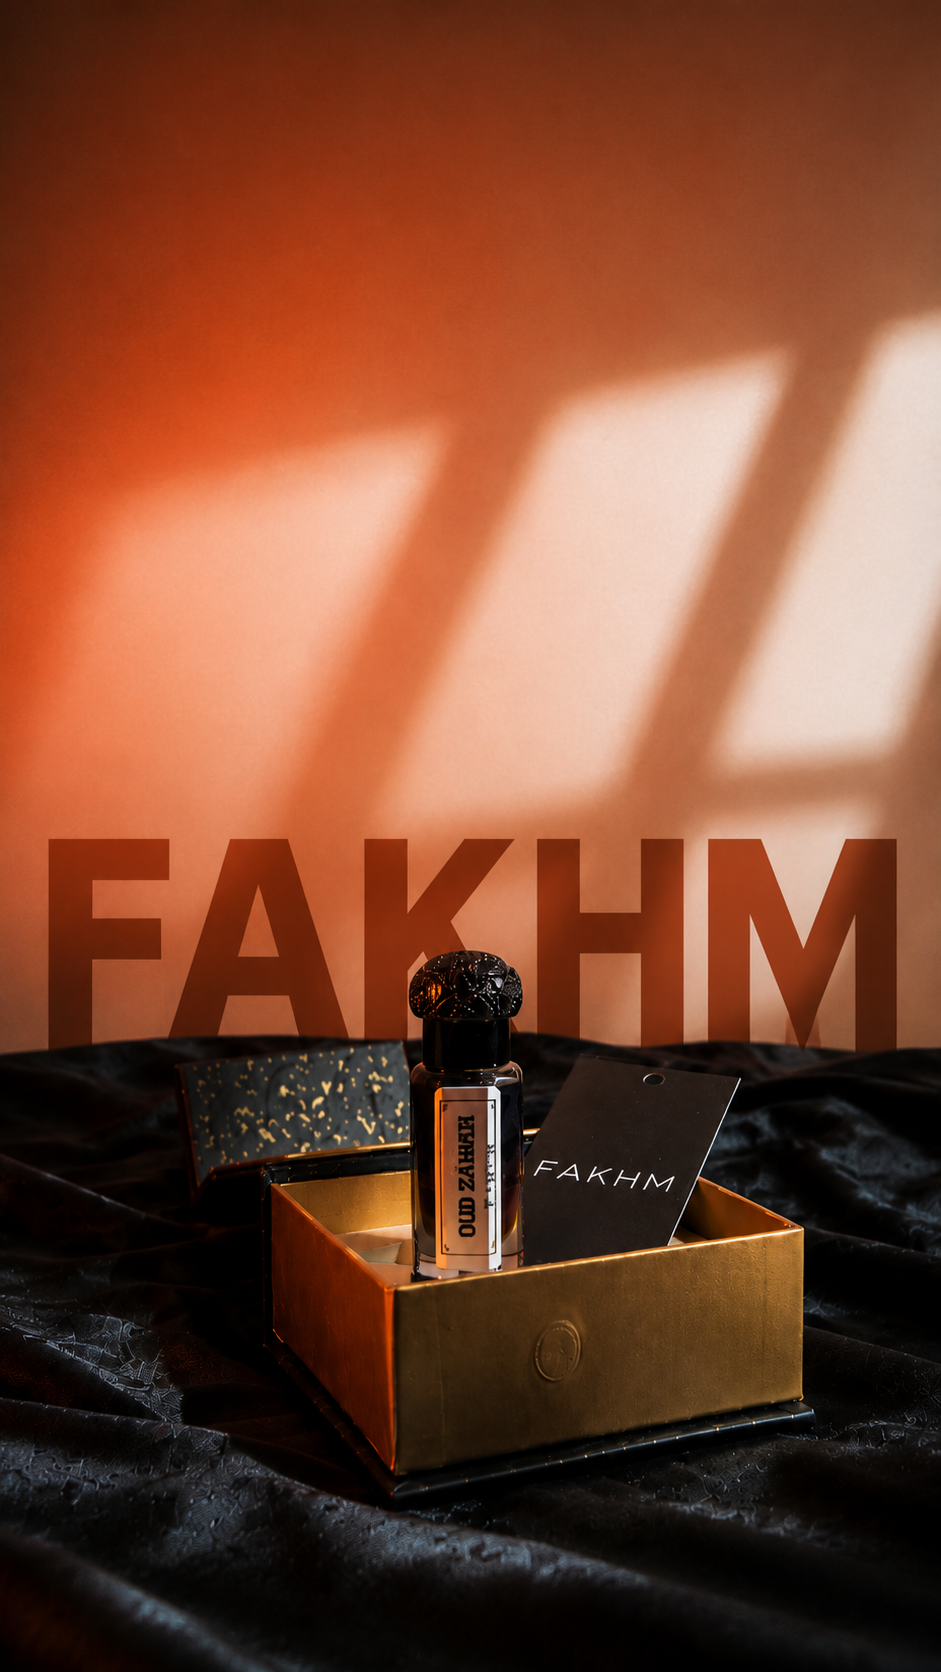
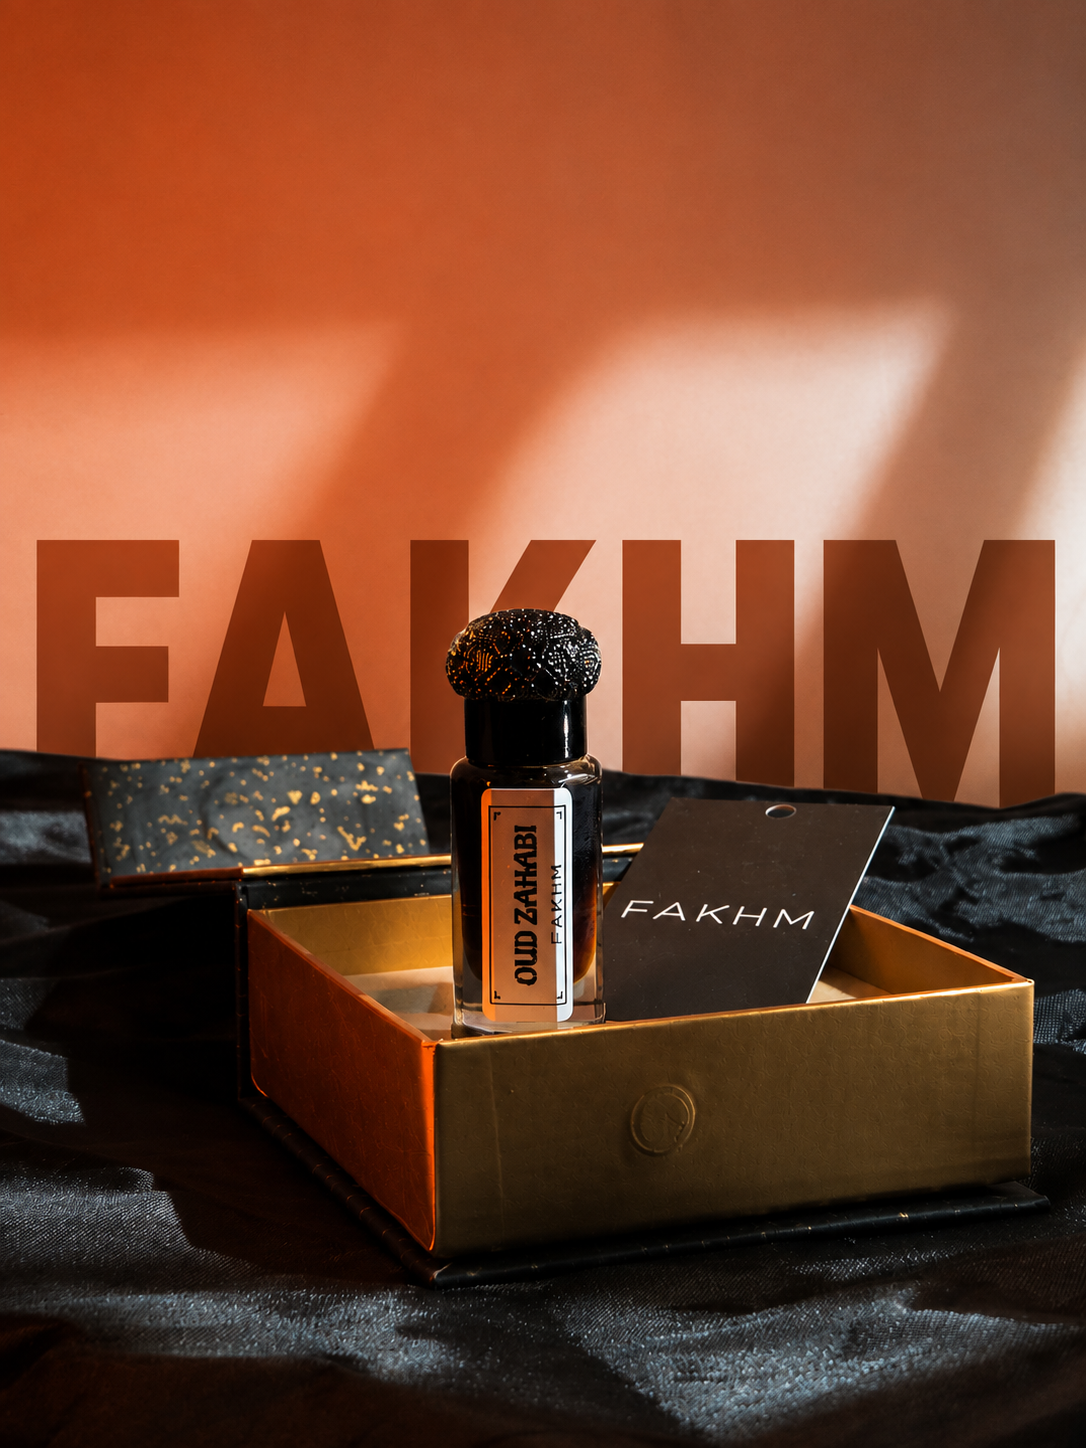
Fix mobile hero image framing

diff --git a/app/page.tsx b/app/page.tsx
@@ -19,7 +19,7 @@ function ProductHero() {
       <motion.img
         src="/home-page-oud-zahabi-mobile.png"
         alt="Fakhm Oud Zahabi"
-        className="absolute inset-0 h-full w-full object-cover md:hidden"
+        className="absolute inset-0 h-full w-full bg-black object-contain md:hidden"
         initial={{ opacity: 0, filter: "blur(18px)", scale: 1.035 }}
         animate={{ opacity: 1, filter: "blur(0px)", scale: 1 }}
         transition={{ duration: 1.7, ease: [0.22, 1, 0.36, 1] }}
